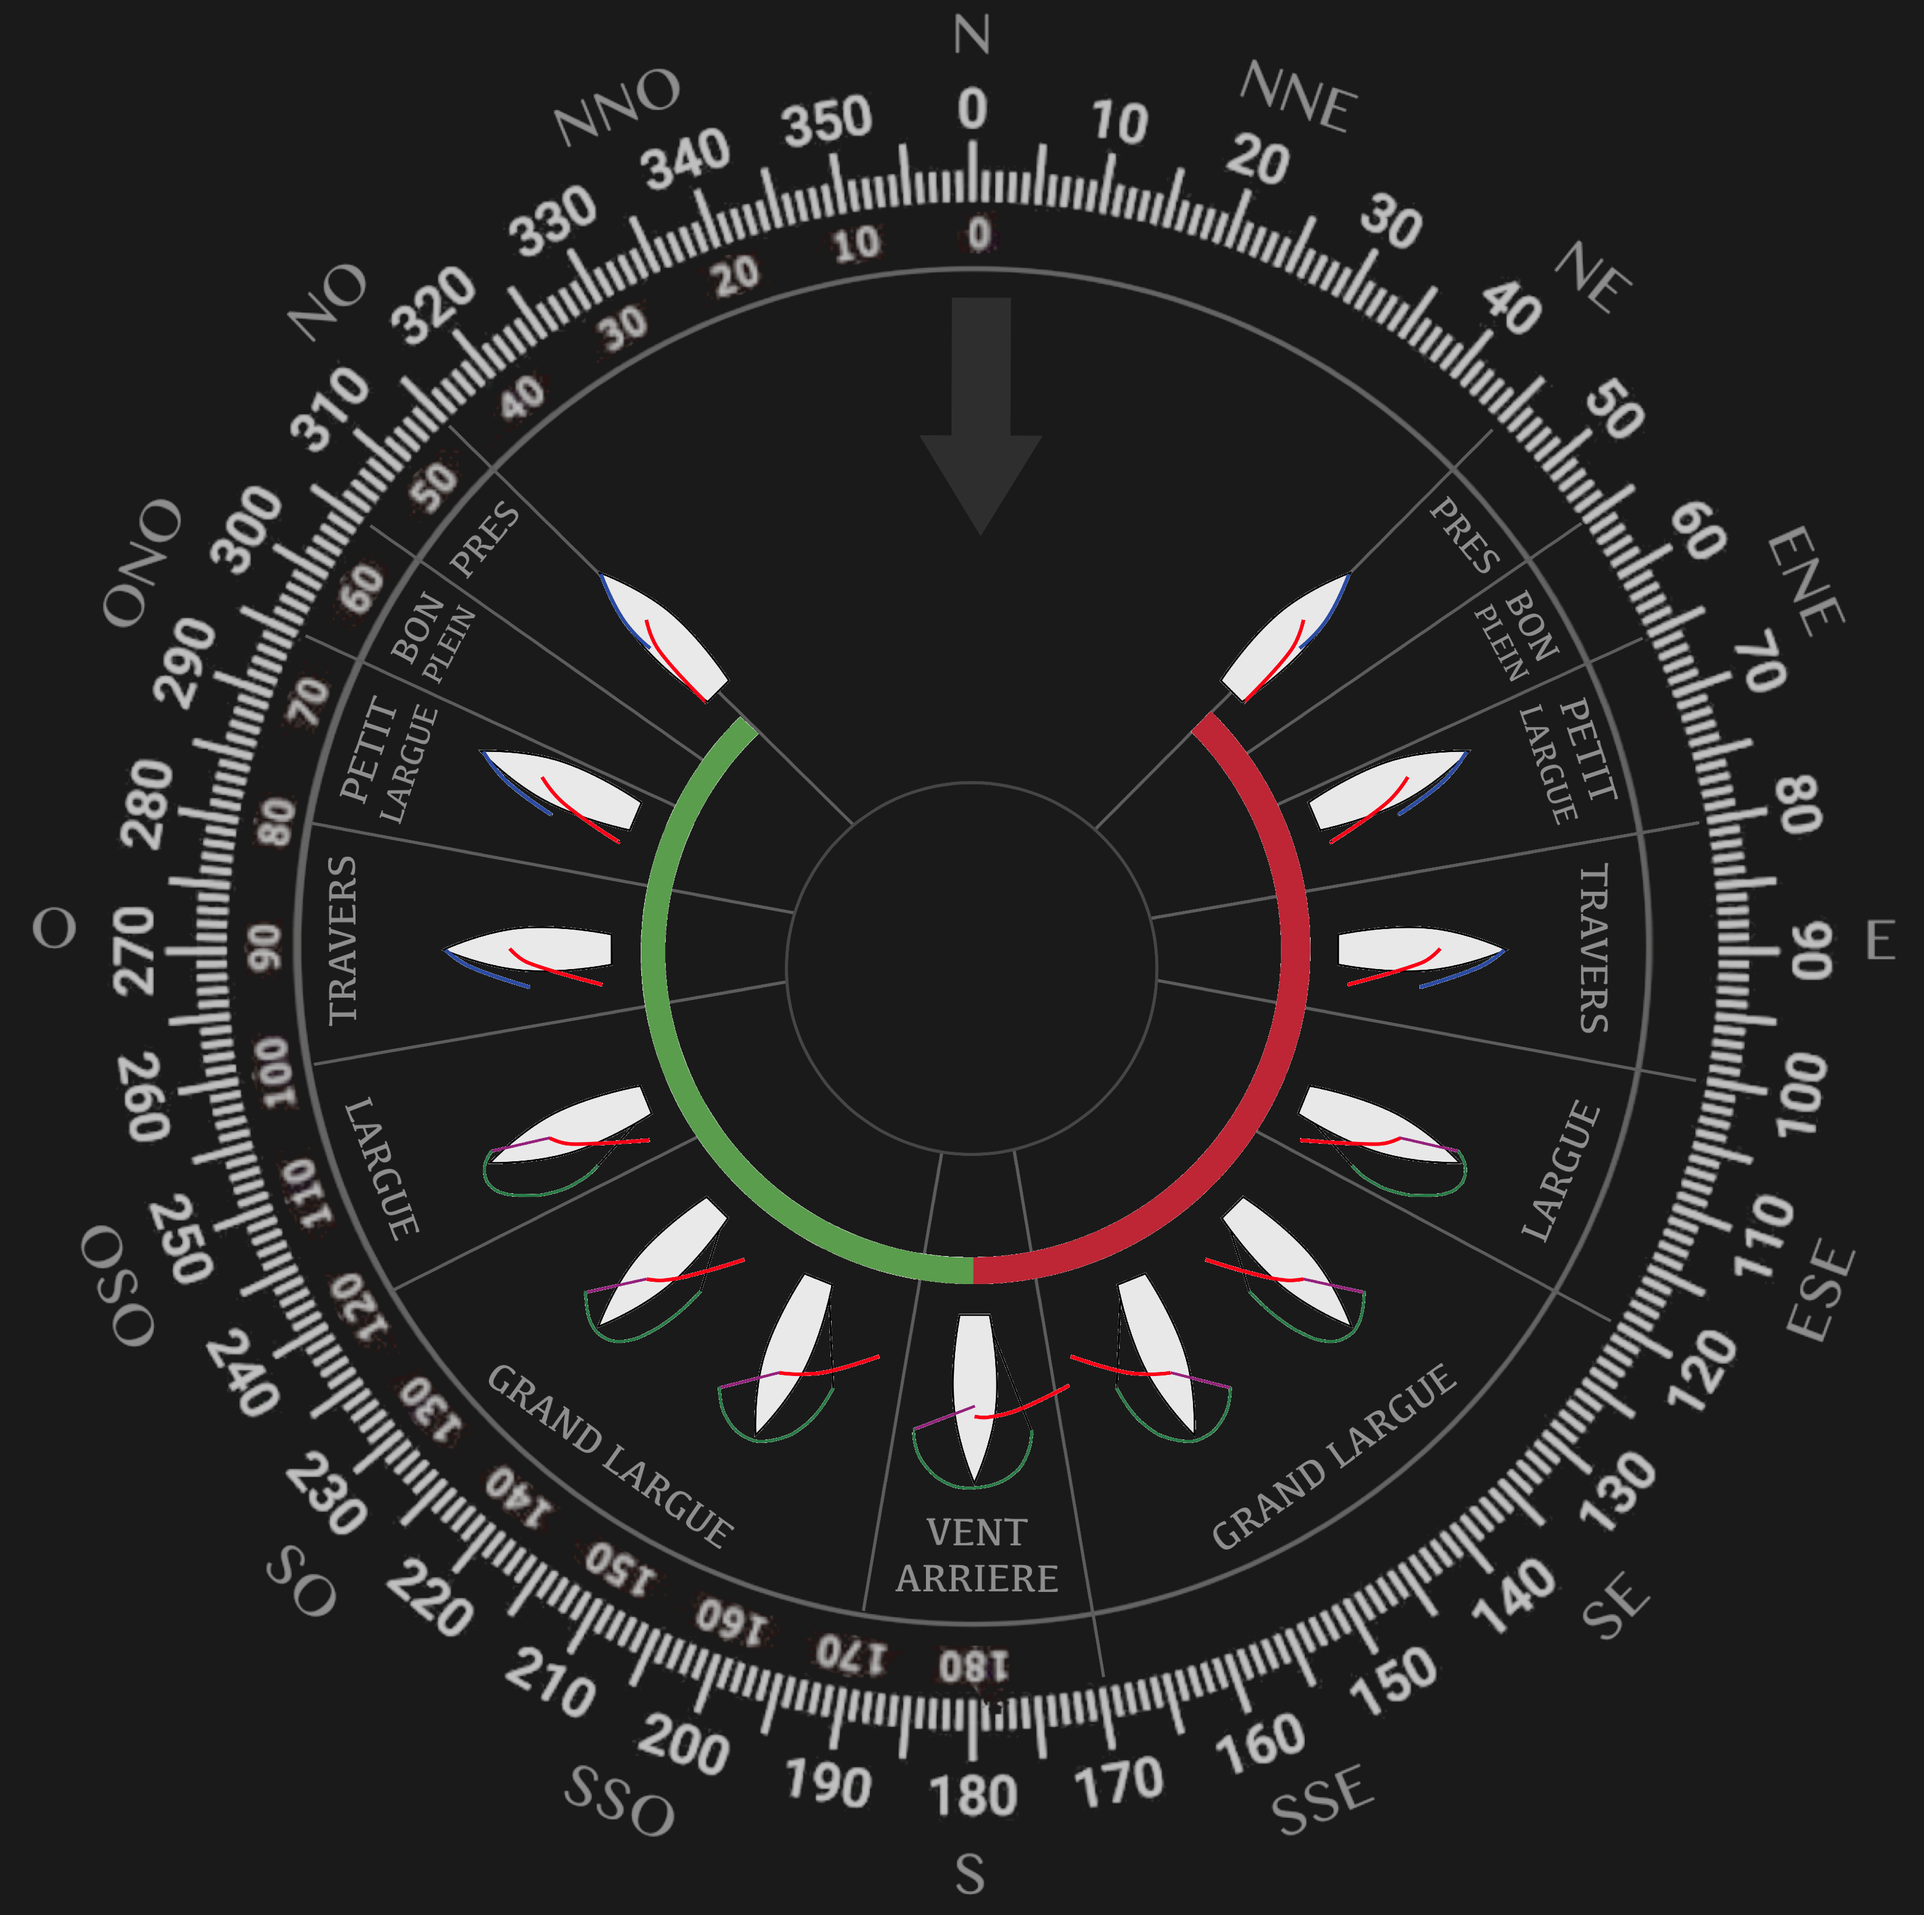
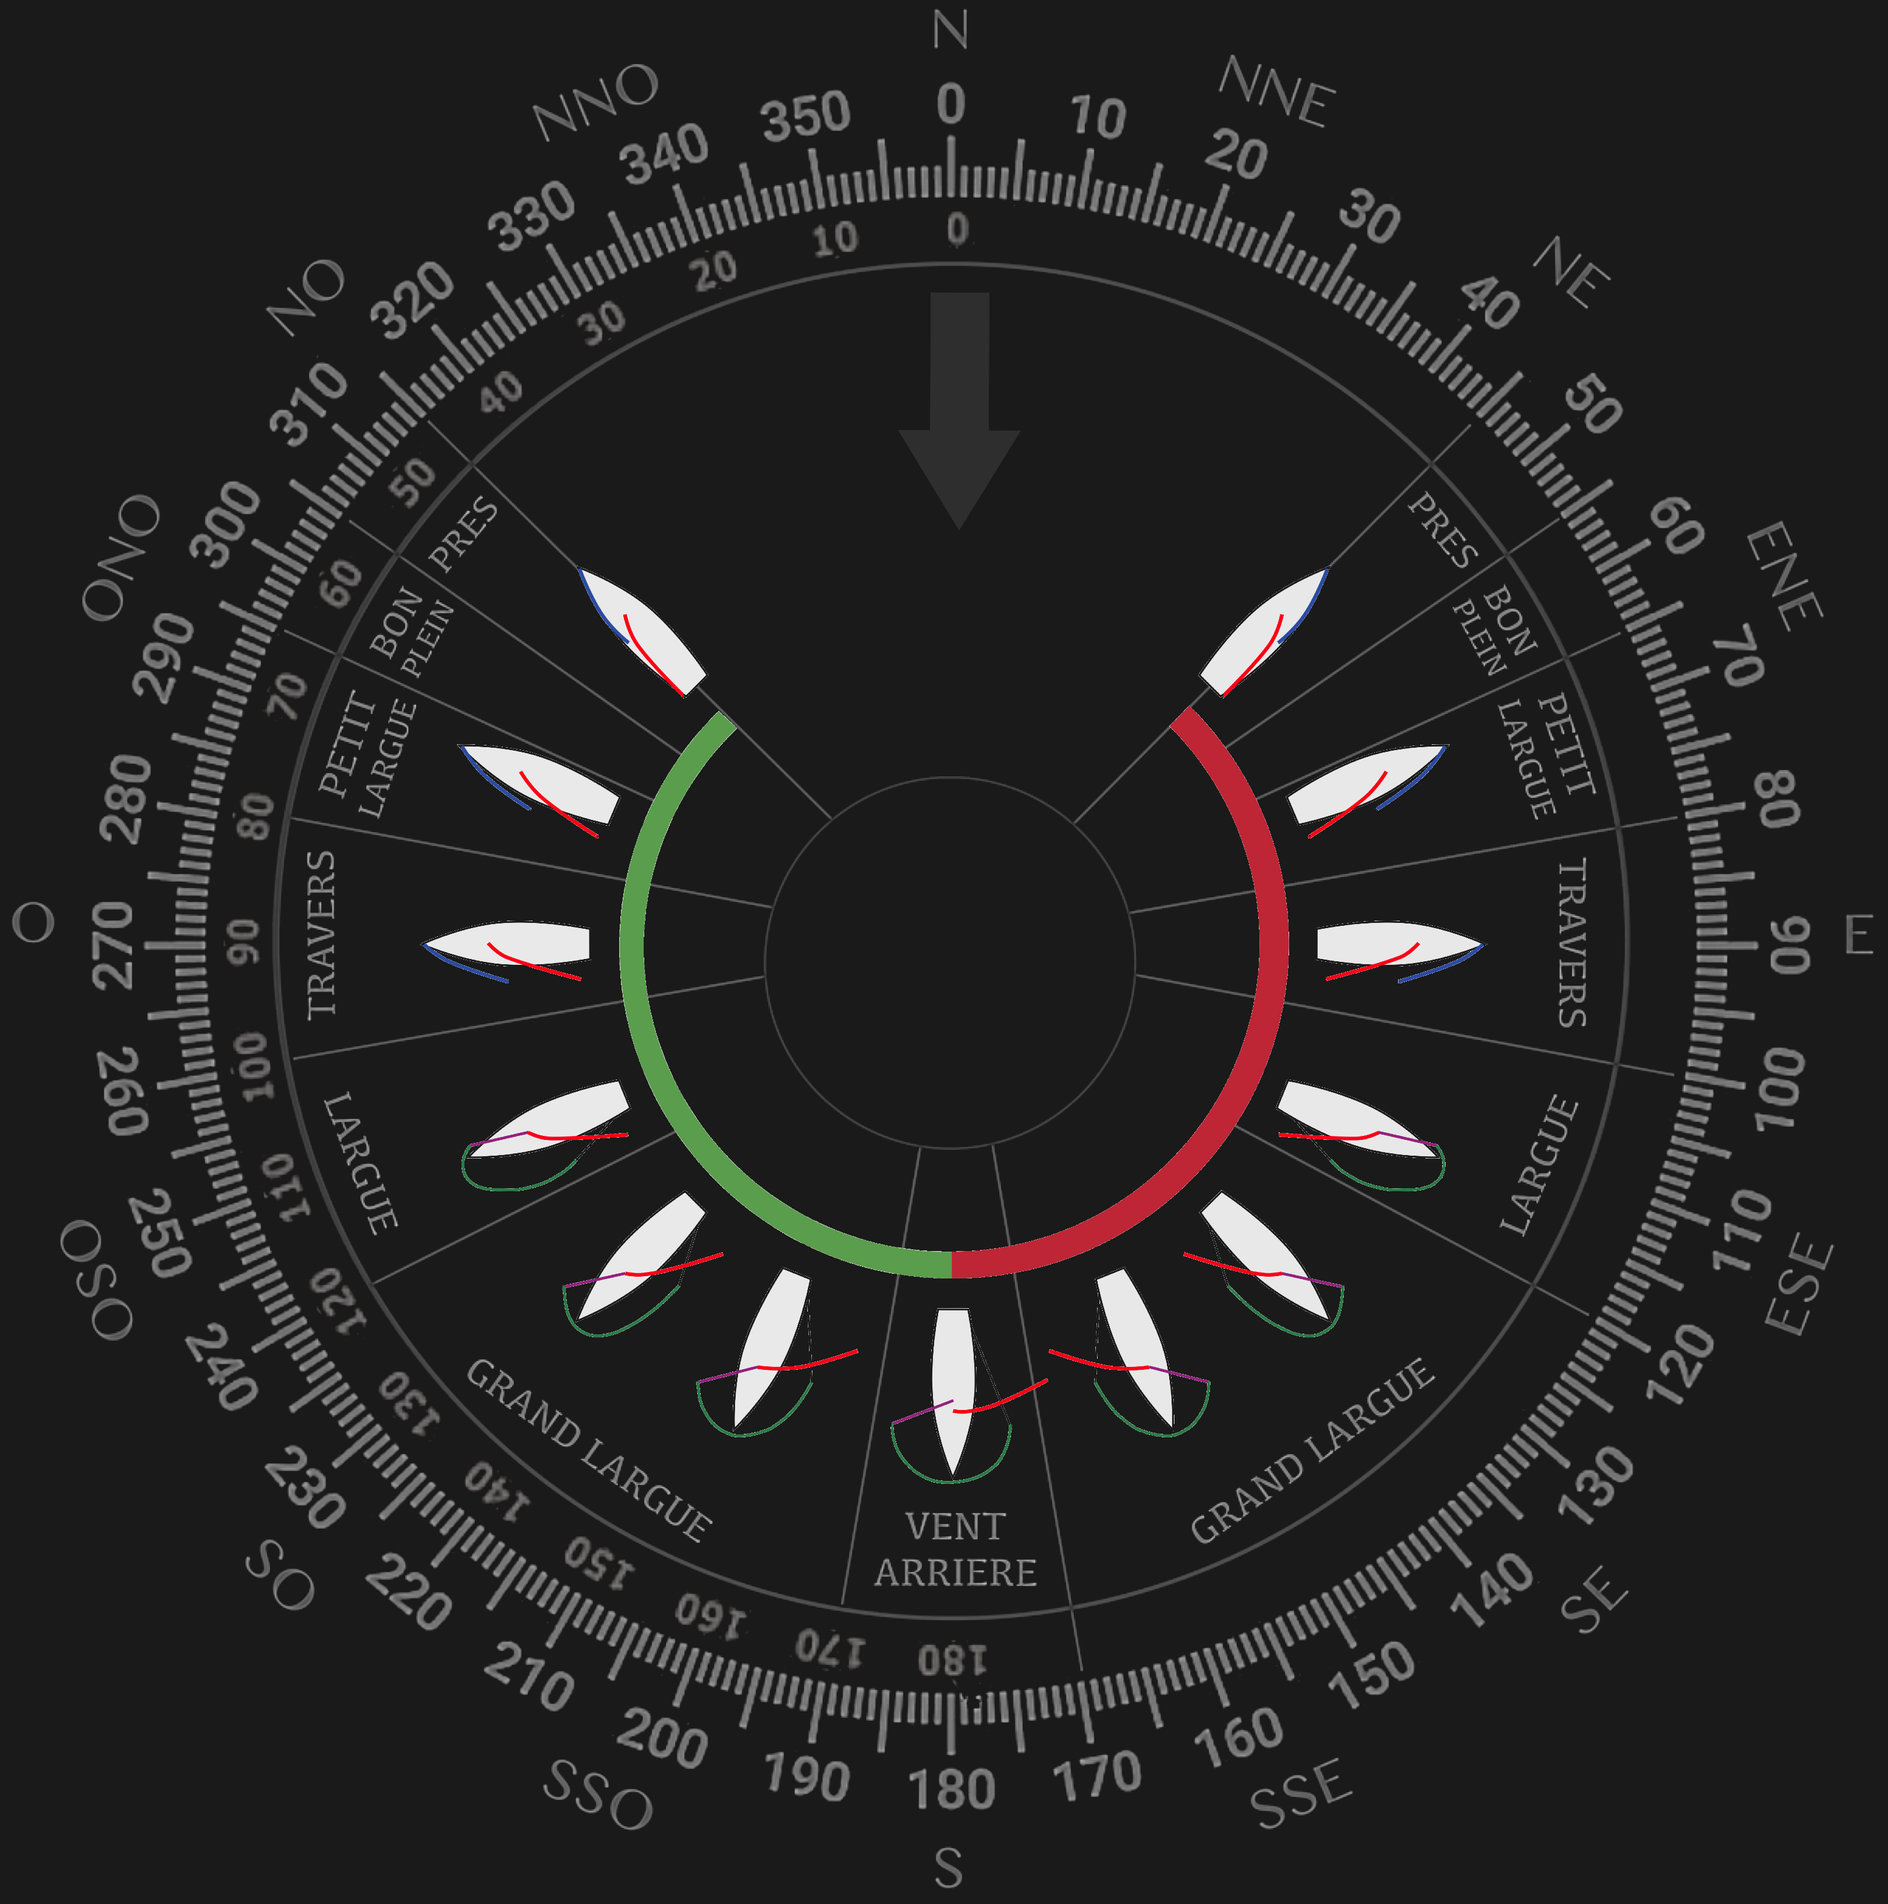
...

diff --git a/journal.html b/journal.html
@@ -702,9 +702,10 @@ Là, j’ai besoin de me poser quelque temps afin de faire les réparations tant
     <br/>
     <div  class="note">
       <p align="center">
-        <img src="img/journal/wind.png" alt="Tableau synoptique - Wind/Allures" style="width:80%;height:400px;" class="note">
+        <img src="img/journal/wind.png" alt="Tableau synoptique - Wind/Allures" style="width:70%;height:350px;" class="note">
       </p>
       
+      <br/>
       <br/>
       <span>Liste des applications qui m’ont aidé :</span>
       <br/><br/>
